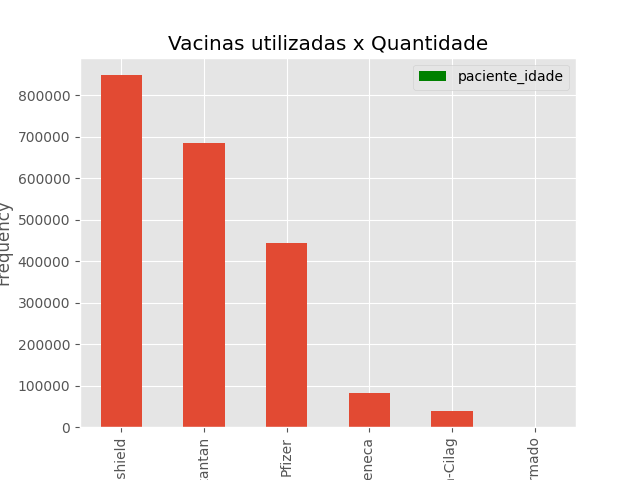
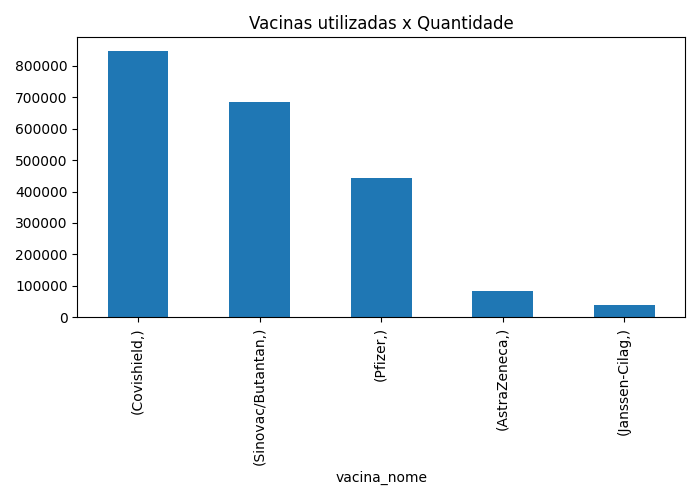
Corrige bugs visuais dos gráficos

diff --git a/analysis/graph.py b/analysis/graph.py
@@ -18,34 +18,25 @@ if not os.path.isfile(arquivo_csv):
 
 dados = pd.read_csv(arquivo_csv, sep = ';')
 
-# Colunas Selecionadas
-colunas_selecionadas =  ['paciente_idade', 'paciente_enumsexobiologico', 'paciente_racacor_valor', 'paciente_endereco_nmmunicipio', 'paciente_endereco_nmpais', 'paciente_endereco_uf', 'estalecimento_nofantasia', 'vacina_grupoatendimento_nome', 'vacina_categoria_nome', 'vacina_descricao_dose', 'vacina_nome', 'paciente_endereco_cep']
+#colunas_selecionadas =  ['paciente_idade', 'paciente_enumsexobiologico', 'paciente_racacor_valor', 'paciente_endereco_nmmunicipio', 'paciente_endereco_nmpais', 'paciente_endereco_uf', 'estalecimento_nofantasia', 'vacina_grupoatendimento_nome', 'vacina_categoria_nome', 'vacina_descricao_dose', 'vacina_nome', 'paciente_endereco_cep']
 
 # Novo Dataframe com as colunas selecionadas
-dados_vacina = dados.filter(items = colunas_selecionadas)
+#dados_vacina = dados.filter(items = colunas_selecionadas)
 
 # Idades inconsistentes foram substituidas pela média aritmética da coluna 'paciente_idade'
-dados_vacina.loc[dados_vacina['paciente_idade'].isnull()] = dados_vacina['paciente_idade'].mean()
+#dados_vacina.loc[dados_vacina['paciente_idade'].isnull()] = dados_vacina['paciente_idade'].mean()
 
 # Dados nulos das outras colunas foram substituidos por 'Não informado'
-dados_vacina.fillna("Não informado", inplace = True)
+#dados_vacina.fillna("Não informado", inplace = True)
 
 # Soma de valores nulos em cada coluna
 #print(dados_vacina.isnull().sum())
 
 # Drop paciente_racacor_valor = 50.59404737212269]
-dados_vacina.drop(dados_vacina.loc[dados_vacina['paciente_racacor_valor'] == 50.59404737212269].index, inplace=True)
+#dados_vacina.drop(dados_vacina.loc[dados_vacina['paciente_racacor_valor'] == 50.59404737212269].index, inplace=True)
 
 #Alteração na UF do paciente
-dados_vacina.loc[dados_vacina['paciente_endereco_uf'] == 'XX'] = 'Não informado'
-
-####################### Função para salvar os graficos #######################
-
-def save_graph(name, buf):
-    if not os.path.isfile(name):
-        f = open(f"aadc/static/img/{name}.png", "wb")
-        f.write(buf)
-        f.close()
+#dados_vacina.loc[dados_vacina['paciente_endereco_uf'] == 'XX'] = 'Não informado'
 
 ####################### Quantidade de pessoas que tomaram a 1°, 2° e 3° dose #######################
 
@@ -53,7 +44,7 @@ def graf_quant_dose123(name):
     # Filtrando dados do DataFrame
 
     colunas = ['vacina_descricao_dose']
-    vacina_dose = dados_vacina.filter(items=colunas)
+    vacina_dose = dados.filter(items=colunas)
     
     # Removendo dados de não informado
     vacina_dose.drop(vacina_dose.loc[vacina_dose['vacina_descricao_dose'] == 'Não informado'].index, inplace=True)
@@ -61,23 +52,16 @@ def graf_quant_dose123(name):
     graf = vacina_dose.value_counts()
 
     labels = ['1° Dose', '2° Dose', 'Dose única']
-    plt.style.use("ggplot")
+    #plt.style.use("ggplot")
     explode = (0.1, 0.0, 0.0)
+    graf.plot.pie(figsize=(7, 5), autopct='%1.1f%%', shadow=True, startangle = 90, ylabel='', title = 'Porcentagem de pessoas que tomaram a 1° dose, 2° dose e a dose única.\n', subplots=True, labels = labels, explode=explode) 
 
-    labels1 = ['', '', '', '']
-    graf.plot.pie(autopct='%1.1f%%', shadow=True, startangle = 90, ylabel='', title = 'Porcentagem de pessoas que tomaram a 1° dose, 2° dose e a dose única.\n', subplots=True, labels = labels1,explode= explode ) 
-
-    L = plt.legend( bbox_to_anchor=(1, 0, 0.5, 1), loc='center left', labels = labels)
+    #plt.legend( bbox_to_anchor=(1, 0, 0.5, 1), loc='center left', labels = labels)
     #plt.show() 
-
+    plt.tight_layout()
     fig = plt.gcf()
-    buf = io.BytesIO()
-    fig.savefig(buf, format = 'png')
-    buf.seek(0)
-    save_graph(name, buf.read())
-    #string = base64.b64encode(buf.read())
-    #uri = urllib.parse.quote(string)
-    #return uri
+    fig.savefig(f"aadc/static/img/{name}.png", format = 'png')
+    plt.close(fig)
 
 #######################Classificação por região geográfica.(estados do Brasil)#######################
 
@@ -85,22 +69,17 @@ def graf_regiao_geografica_estados(name):
 
     # Filtrando dados do DataFrame
     colunas = ['paciente_endereco_uf']
-    dados_regiao_geografica = dados_vacina.filter(items=colunas)
+    dados_regiao_geografica = dados.filter(items=colunas)
 
     # Gráfico UF do paciente 
-    graf = (dados_regiao_geografica['paciente_endereco_uf'].value_counts())
+    graf = dados_regiao_geografica['paciente_endereco_uf'].value_counts()
 
-    graf.plot.bar(title = 'Localização geográfica das pessoas que se vacinaram no DF\n', xlabel= 'Estados', ylabel = 'Quantidade de pessoas')
+    graf.plot.bar(figsize=(7, 5), title = 'Localização geográfica das pessoas que se vacinaram no DF\n', xlabel= 'Estados', ylabel = 'Quantidade de pessoas')
     #plt.show() 
-
+    plt.tight_layout()
     fig = plt.gcf()
-    buf = io.BytesIO()
-    fig.savefig(buf, format = 'png')
-    buf.seek(0)
-    save_graph(name, buf.read())
-    #string = base64.b64encode(buf.read())
-    #uri = urllib.parse.quote(string)
-    #return uri
+    fig.savefig(f"aadc/static/img/{name}.png", format = 'png')
+    plt.close(fig)
 
 
 ####################### Classificação por região geográfica. (paises) #######################
@@ -111,7 +90,7 @@ def graf_regiao_geografica_paises(name):
 
     # Filtrando dados do DataFrame
     colunas = ['paciente_endereco_nmpais']
-    regiao_geografica_paises = dados_vacina.filter(items=colunas)
+    regiao_geografica_paises = dados.filter(items=colunas)
 
     # Gráfico país do paciente 
     graf_paises = (regiao_geografica_paises['paciente_endereco_nmpais'].value_counts())
@@ -127,14 +106,10 @@ def graf_regiao_geografica_paises(name):
     axs[1].pie(graf_paises_estrangeiros, labels=label, shadow=True, startangle=90)
   
     #Django
+    plt.tight_layout()
     fig = plt.gcf()
-    buf = io.BytesIO()
-    fig.savefig(buf, format = 'png')
-    buf.seek(0)
-    save_graph(name, buf.read())
-    #string = base64.b64encode(buf.read())
-    #uri = urllib.parse.quote(string)
-    #return uri
+    fig.savefig(f"aadc/static/img/{name}.png", format = 'png')
+    plt.close(fig)
 
 ####################### Faixa etária das pessoas que tomaram a vacina. #######################
 
@@ -142,7 +117,7 @@ def faixa_etaria(name):
 
   # Filtrando dados do DataFrame
     colunas = ['paciente_idade']
-    idade = dados_vacina.filter(items=colunas)
+    idade = dados.filter(items=colunas)
     #idade = dados_vacina['paciente_idade']
  
     # Alteração na idade  do paciente
@@ -150,23 +125,19 @@ def faixa_etaria(name):
     
     # Criação do gráfico
     
-    idade.plot.hist(bins=30,color= 'green') 
+    idade.plot.hist(bins=30, figsize=(7, 5), color= 'green') 
 
     #Django
+    plt.tight_layout()
     fig = plt.gcf()
-    buf = io.BytesIO()
-    fig.savefig(buf, format = 'png')
-    buf.seek(0)
-    save_graph(name, buf.read())
-    #string = base64.b64encode(buf.read())
-    #uri = urllib.parse.quote(string)
-    #return uri    
+    fig.savefig(f"aadc/static/img/{name}.png", format = 'png')
+    plt.close(fig)
 
 ####################### Classificação por vacina (Pfizer..) #######################
 def name_vacina(name):
     # Filtrando dados do DataFrame
     colunas = ['vacina_nome']
-    vacinas = dados_vacina['vacina_nome']
+    vacinas = dados.filter(items=colunas)
 
     vacinas = vacinas.replace('Vacina Covid-19 - Covishield', 'Covishield')
     vacinas = vacinas.replace('Covid-19-Coronavac-Sinovac/Butantan', 'Sinovac/Butantan')
@@ -176,20 +147,14 @@ def name_vacina(name):
 
     # Gráfico
     graf = vacinas.value_counts()
-    graf.plot.bar(title='Vacinas utilizadas x Quantidade')
+    graf.plot.bar(title='Vacinas utilizadas x Quantidade', figsize=(7, 5),)
     #print(graf)
 
     #Django
+    plt.tight_layout()
     fig = plt.gcf()
-    buf = io.BytesIO()
-    fig.savefig(buf, format = 'png')
-    buf.seek(0)
-    save_graph(name, buf.read())
-    #string = base64.b64encode(buf.read())
-    #uri = urllib.parse.quote(string)
-    #return uri
-
-
+    fig.savefig(f"aadc/static/img/{name}.png", format = 'png')
+    plt.close(fig)
 
 ####################### Classificação por Etnia #######################
 def vacina_etnia(name):
@@ -198,83 +163,67 @@ def vacina_etnia(name):
     dados.drop(dados_limpos , inplace=True)
     graf = (dados['paciente_racacor_valor'].value_counts())
     #Criando o grafico
-    graf.plot.bar(title = 'Etnia\n',xlabel= 'Vacinas', ylabel = 'Frequência', color= "ORANGE")
+    graf.plot.bar(title = 'Etnia\n',xlabel= 'Vacinas', ylabel = 'Frequência', color= "ORANGE", figsize=(7, 5),)
 
     #Django
+    plt.tight_layout()
     fig = plt.gcf()
-    buf = io.BytesIO()
-    fig.savefig(buf, format = 'png')
-    buf.seek(0)
-    save_graph(name, buf.read())
-    #string = base64.b64encode(buf.read())
-    #uri = urllib.parse.quote(string)
-    #return uri    
+    fig.savefig(f"aadc/static/img/{name}.png", format = 'png')
+    plt.close(fig)
+   
 ####################### Classificação por Grupo de vacinados #######################
 
 def vacina_categoria(name):
     #Filtrando as colunas
     graf = (dados['vacina_categoria_nome'].value_counts())
     #Criando o grafico
-    graf.plot.bar(title = 'Categorias mais vacinadas no DF\n', xlabel= 'Vacinas', ylabel = 'Frequência', color = "green")
+    graf.plot.bar(figsize=(7, 5), title = 'Categorias mais vacinadas no DF\n', xlabel= 'Vacinas', ylabel = 'Frequência', color = "green")
 
     #Django
+    plt.tight_layout()
     fig = plt.gcf()
-    buf = io.BytesIO()
-    fig.savefig(buf, format = 'png')
-    buf.seek(0)
-    save_graph(name, buf.read())
-    #string = base64.b64encode(buf.read())
-    #uri = urllib.parse.quote(string)
-    #return uri    
+    fig.savefig(f"aadc/static/img/{name}.png", format = 'png')
+    plt.close(fig)
+
 ####################### Classificação por genero biologico #######################
 
 def vacina_genero_biologico(name):
     #Filtrando coluna
     graf = (dados['paciente_enumsexobiologico'].value_counts())
     #Criando o gráfico
-    graf.plot.pie(title = 'Gênero que mais se vacinou no  DF\n', autopct='%1.1f%%',xlabel= 'Vacinas', ylabel = 'Porcentagem')
+    graf.plot.pie(figsize=(7, 5), title = 'Gênero que mais se vacinou no  DF\n', autopct='%1.1f%%',xlabel= 'Vacinas', ylabel = 'Porcentagem')
 
     #Django
+    plt.tight_layout()
     fig = plt.gcf()
-    buf = io.BytesIO()
-    fig.savefig(buf, format = 'png')
-    buf.seek(0)
-    save_graph(name, buf.read())
-    #string = base64.b64encode(buf.read())
-    #uri = urllib.parse.quote(string)
-    #return uri    
+    fig.savefig(f"aadc/static/img/{name}.png", format = 'png')
+    plt.close(fig)
+
 ####################### Classificação por UF dos vacinados #######################
 def uf_dos_vacinados(name):
     #Filtrando coluna
     graf = (dados['paciente_endereco_uf'].value_counts())
     #Criando o gráfico
-    graf.plot.bar(title = 'UF dos pacientes que foram vacinados no DF\n', xlabel= 'Vacinas', ylabel = 'Frequência', color = "Yellow")
+    graf.plot.bar(figsize=(7, 5), title = 'UF dos pacientes que foram vacinados no DF\n', xlabel= 'Vacinas', ylabel = 'Frequência', color = "Yellow")
 
     #Django
+    plt.tight_layout()
     fig = plt.gcf()
-    buf = io.BytesIO()
-    fig.savefig(buf, format = 'png')
-    buf.seek(0)
-    save_graph(name, buf.read())
-    #string = base64.b64encode(buf.read())
-    #uri = urllib.parse.quote(string)
-    #return uri    
+    fig.savefig(f"aadc/static/img/{name}.png", format = 'png')
+    plt.close(fig)
+  
 ####################### Classificação das doses ja tomadas #######################
 def dose_tomada(name):
     #Filtrando as colunas
     graf = (dados['vacina_descricao_dose'].value_counts())
     #Criando os gráficos
-    graf.plot.barh(title = 'Quantidade das doses já tomadas DF\n', xlabel= 'Vacinas', ylabel = 'Frequência', color="purple")
+    graf.plot.barh(figsize=(7, 5), title = 'Quantidade das doses já tomadas DF\n', xlabel= 'Vacinas', ylabel = 'Frequência', color="purple")
 
     #Django
+    plt.tight_layout()
     fig = plt.gcf()
-    buf = io.BytesIO()
-    fig.savefig(buf, format = 'png')
-    buf.seek(0)
-    save_graph(name, buf.read())
-    #string = base64.b64encode(buf.read())
-    #uri = urllib.parse.quote(string)
-    #return uri  
+    fig.savefig(f"aadc/static/img/{name}.png", format = 'png')
+    plt.close(fig)
 
 # Chamando as funções 
 Quantidade_doses = Graphic(imageGraphic = graf_quant_dose123("graf_quant_dose"))
